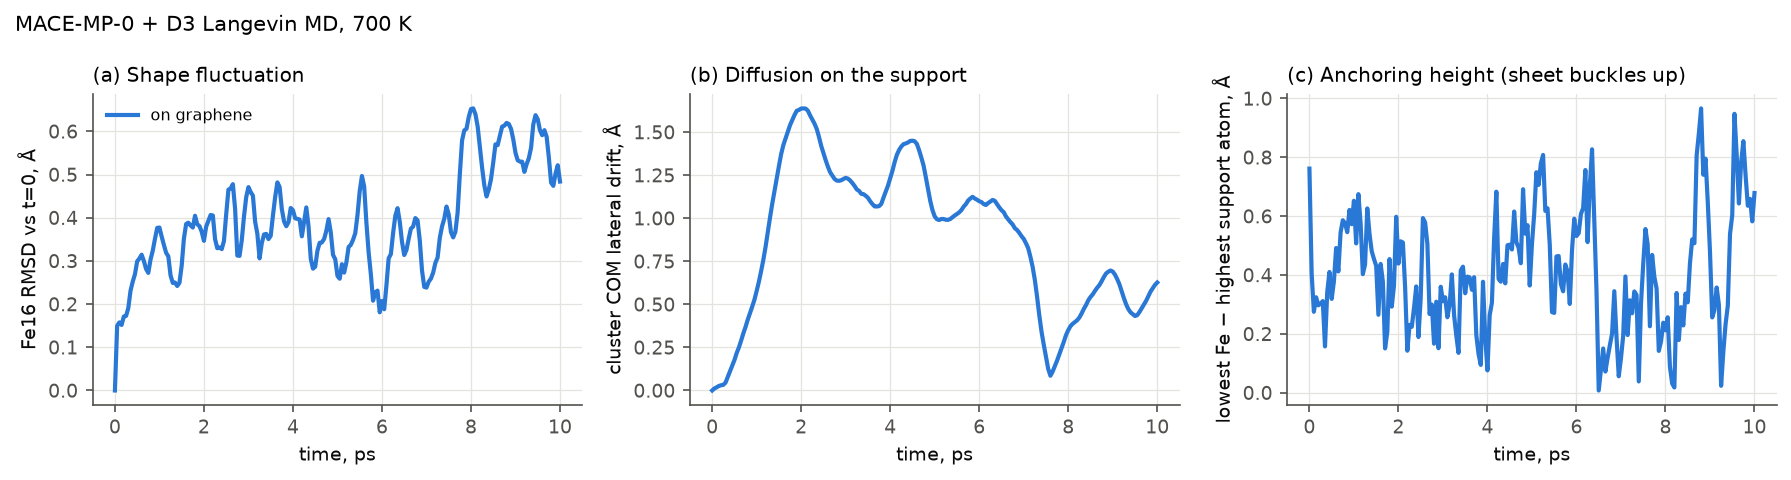
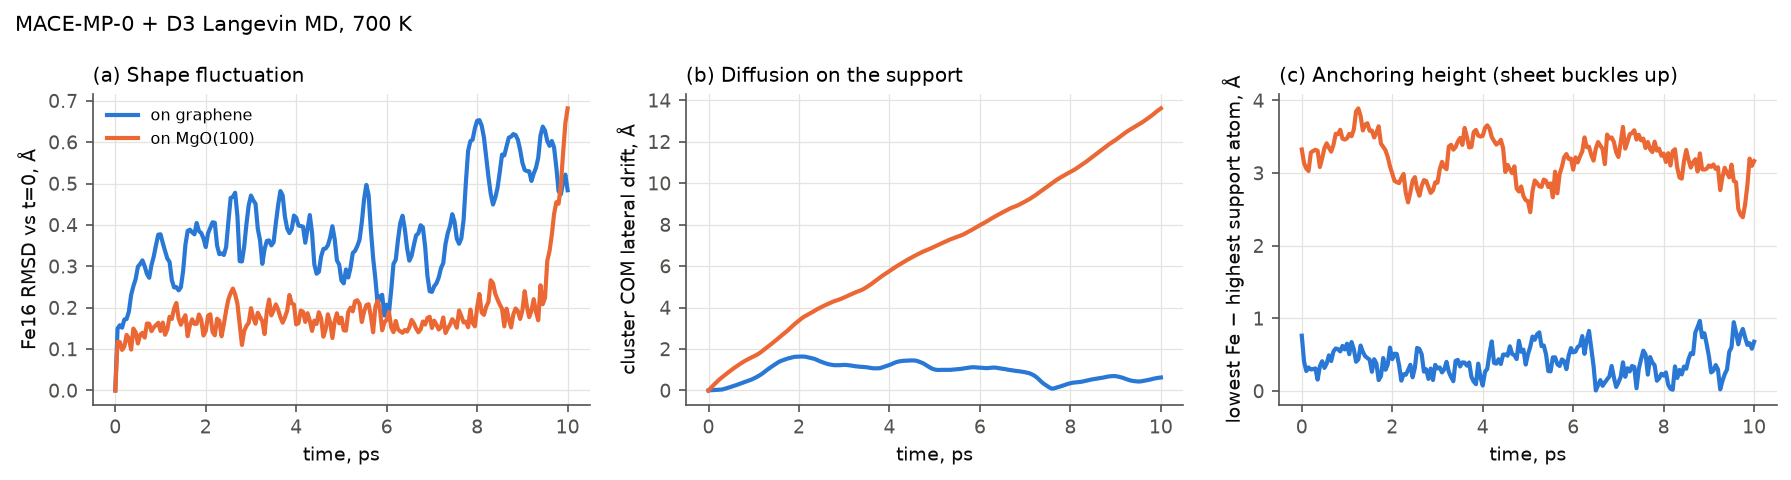
Add MgO MD and TEM panels to the supported-Fe16 example
The unbound Fe16 slides 13.6 A in 10 ps on MgO(100) under MACE-MP-0 and
vanishes from the time-averaged image -- documented as a spurious prediction
caused by the missing Fe-O interaction.

diff --git a/examples/supported_fe16_tem/README.md b/examples/supported_fe16_tem/README.md
@@ -78,7 +78,9 @@ trained to fill (VASP labels).
 ![MD](figures/fig4_md.png)
 
 On graphene at 700 K the cluster stays anchored (centre-of-mass drift ≤ 1.6 Å in
-10 ps) but is fluxional (RMSD up to 0.65 Å from the starting structure).
+10 ps) but is fluxional (RMSD up to 0.65 Å from the starting structure). On MgO(100)
+the unbound cluster hovers ~3 Å up and **slides 13.6 Å in 10 ps** (≈ 1.4 Å/ps)
+while keeping its shape — the dynamical face of the missing Fe–O interaction.
 
 ![TEM profile](figures/fig5_tem_profile.png)
 ![TEM plan](figures/fig5_tem_plan.png)
@@ -86,7 +88,10 @@ On graphene at 700 K the cluster stays anchored (centre-of-mass drift ≤ 1.6 Å
 As in the tutorial, a single-frame image resolves individual Fe columns, the 10 ps
 average smears them, and at a realistic dose the averaged cluster is barely
 distinguishable from the background — the structural dynamics are invisible on
-detector timescales.
+detector timescales. On MgO the sliding cluster disappears from the averaged image
+entirely. That is a cautionary example: a wrong interaction term produces a
+confident-looking but spurious TEM prediction ("the cluster is too mobile to
+image"), so the ΔE_interaction has to be validated before images are interpreted.
 
 ## What this means for ClusterMLIP
 
